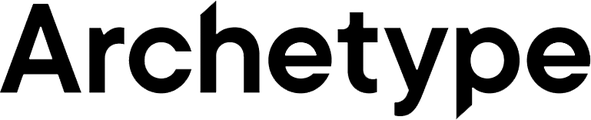
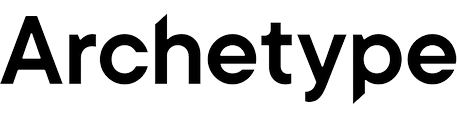
Agency marks: drop "for", optical vertical centring, add Text100
- Remove the "for" label; the mark is now just the logo
- Renormalise all logos so each wordmark's letter-body band (x-height or
  cap height) is centred on a shared 120px canvas; flex-centred images now
  sit dead-level with adjacent text (measured delta 0.0px on all marks)
- Add Text100 logo; tag Pitch! and Conduent

diff --git a/src/content.config.ts b/src/content.config.ts
@@ -16,7 +16,7 @@ const work = defineCollection({
     order: z.number().optional(),
     draft: z.boolean().default(false),
     protected: z.boolean().default(false),
-    agency: z.enum(['Highwire', 'Archetype', 'Wonderscript']).optional(), // agency the work was done at
+    agency: z.enum(['Highwire', 'Archetype', 'Wonderscript', 'Text100']).optional(), // agency the work was done at
   }),
 });
 

diff --git a/src/content/work/conduent-lead-gen.md b/src/content/work/conduent-lead-gen.md
@@ -1,6 +1,7 @@
 ---
 title: "Conduent: Integrated Lead-Gen Campaign"
 client: "Conduent"
+agency: "Text100"
 year: 2020
 tags: ["Lead Generation", "Paid Social", "Earned Media", "Content Marketing"]
 coverImage: "/images/conduent-cover.jpg"
